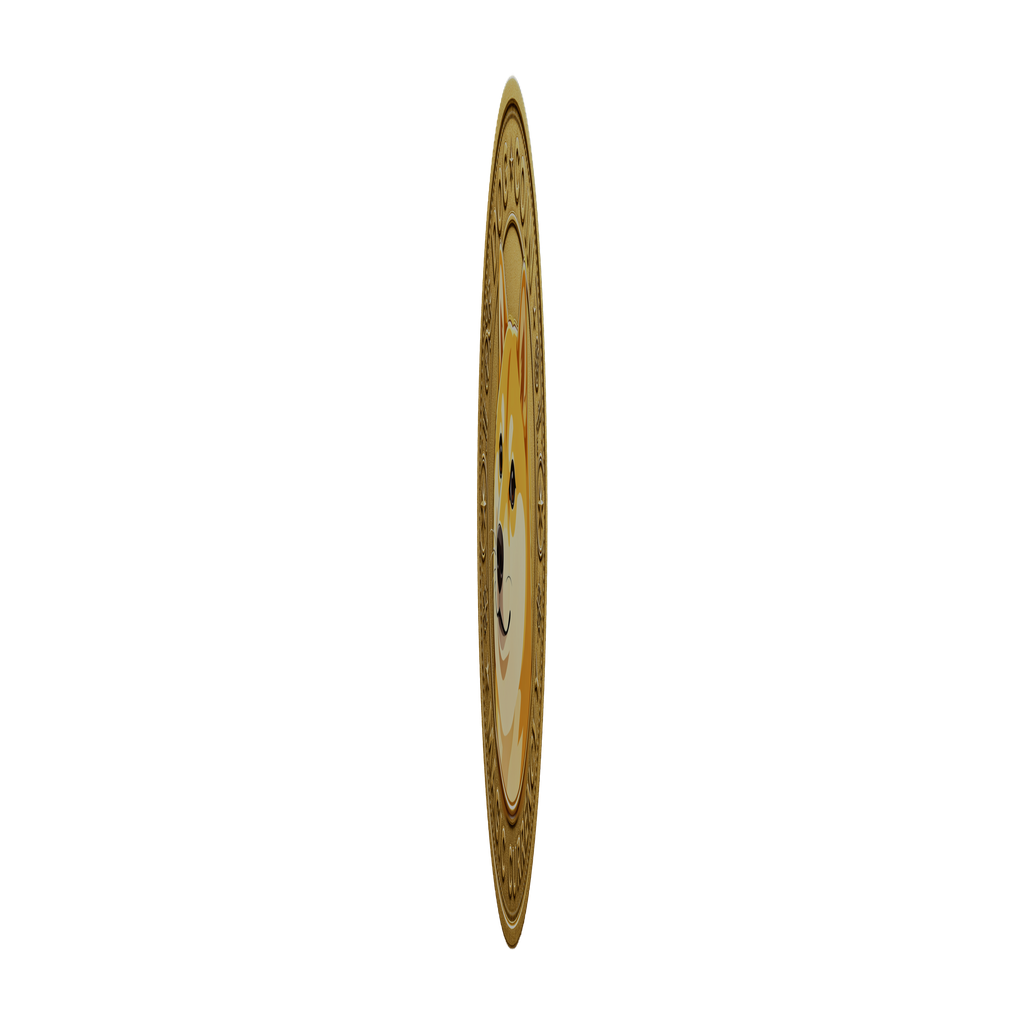
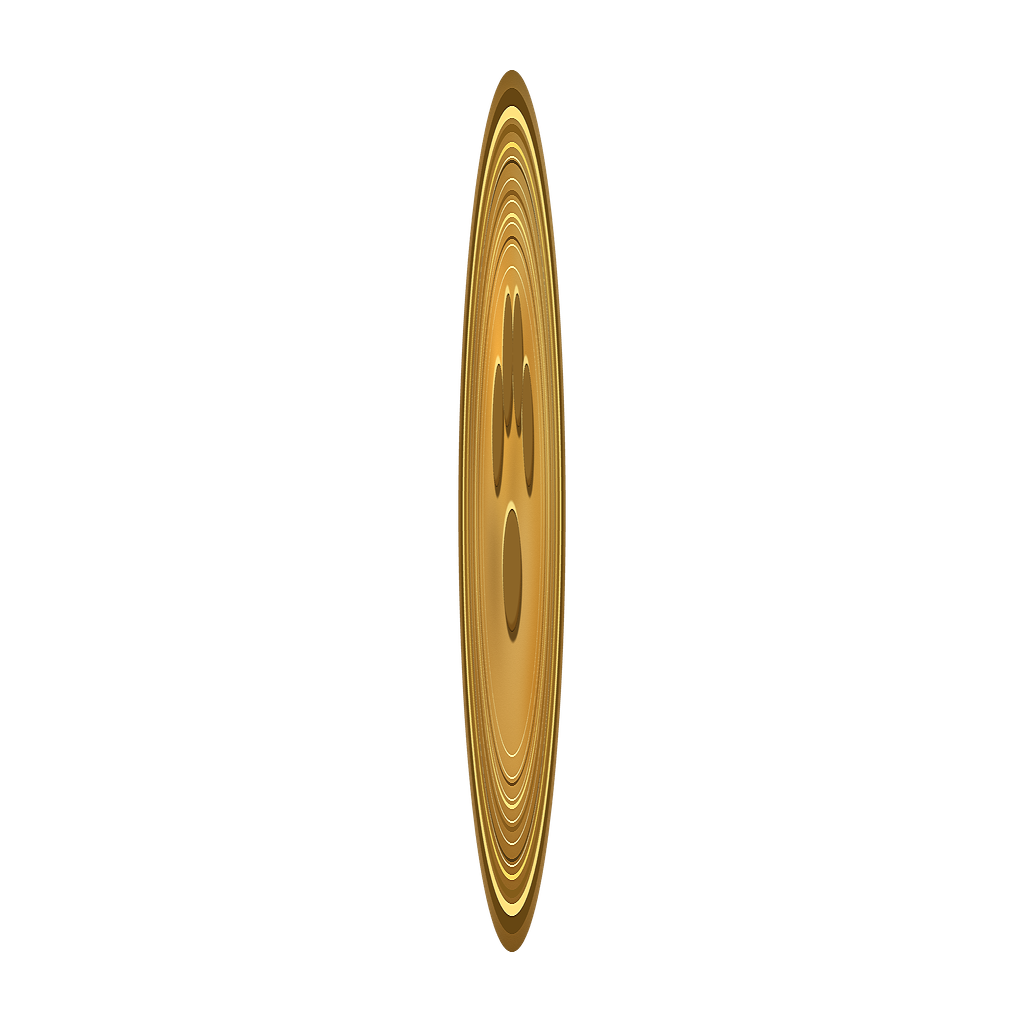
Update petrified coin masters and scale controls

Changed region(s): [[0.4375, 0.0625, 0.5625, 0.9375]]

diff --git a/src/Wukong.Desktop/MainWindow.xaml b/src/Wukong.Desktop/MainWindow.xaml
@@ -41,6 +41,12 @@
                     <MenuItem Header="Scourgify" Tag="wk.magic.scourgify" Click="MagicMenuItem_Click" />
                 </MenuItem>
                 <Separator />
+                <MenuItem Header="大小">
+                    <MenuItem Header="放大" Tag="increase" Click="PetScaleMenuItem_Click" />
+                    <MenuItem Header="缩小" Tag="decrease" Click="PetScaleMenuItem_Click" />
+                    <MenuItem Header="重置大小" Tag="reset" Click="PetScaleMenuItem_Click" />
+                </MenuItem>
+                <Separator />
                 <MenuItem Header="打开面板" Click="OpenPanelMenuItem_Click" />
                 <Separator />
                 <MenuItem Header="退出" Click="ExitMenuItem_Click" />

diff --git a/tests/Wukong.Desktop.Tests/Program.cs b/tests/Wukong.Desktop.Tests/Program.cs
@@ -243,7 +243,15 @@ static void MainWindowPetScaleChangesImageSize()
             var window = new MainWindow();
             window.SetPetScaleForTest(1.25);
             Assert(Math.Abs(window.PetScale - 1.25) < 0.001, "pet scale was not applied");
-            Assert(Math.Abs(window.Width - 400) < 0.001, "window width did not scale");
+            Assert(Math.Abs(window.Width - 400) < 0.001, "window width did not scale up");
+
+            window.SetPetScaleForTest(0.65);
+            Assert(Math.Abs(window.PetScale - 0.65) < 0.001, "pet scale did not shrink");
+            Assert(Math.Abs(window.Width - 208) < 0.001, "window width did not scale down");
+
+            window.SetPetScaleForTest(0.2);
+            Assert(Math.Abs(window.PetScale - 0.5) < 0.001, "pet scale did not clamp to minimum");
+            Assert(Math.Abs(window.Width - 160) < 0.001, "minimum window width changed");
             window.Close();
         }
         catch (Exception ex)
@@ -598,13 +606,16 @@ static void MainWindowContextMenuMatchesContract()
             var root = (FrameworkElement)window.FindName("Root");
             var menu = root.ContextMenu ?? throw new InvalidOperationException("main context menu missing");
             var headers = menu.Items.OfType<MenuItem>().Select(x => x.Header?.ToString()).ToArray();
-            Assert(headers.SequenceEqual(new[] { "停下", "聊天", "吃一下", "玩一下", "口令", "宠物魔法", "打开面板", "退出" }), "top-level context menu order changed");
+            Assert(headers.SequenceEqual(new[] { "停下", "聊天", "吃一下", "玩一下", "口令", "宠物魔法", "大小", "打开面板", "退出" }), "top-level context menu order changed");
 
             var commands = menu.Items.OfType<MenuItem>().Single(x => Equals(x.Header, "口令"));
             Assert(commands.Items.OfType<MenuItem>().Select(x => x.Header?.ToString()).SequenceEqual(new[] { "坐", "卧", "停", "转圈", "手", "吃" }), "command submenu order changed");
 
             var magic = menu.Items.OfType<MenuItem>().Single(x => Equals(x.Header, "宠物魔法"));
             Assert(magic.Items.OfType<MenuItem>().Select(x => x.Header?.ToString()).SequenceEqual(new[] { "Accio Broom", "Apparate", "Petrificus Totalus", "Scourgify" }), "magic submenu order changed");
+
+            var scale = menu.Items.OfType<MenuItem>().Single(x => Equals(x.Header, "大小"));
+            Assert(scale.Items.OfType<MenuItem>().Select(x => x.Header?.ToString()).SequenceEqual(new[] { "放大", "缩小", "重置大小" }), "scale submenu order changed");
             window.Close();
         }
         catch (Exception ex)

diff --git a/src/Wukong.Desktop/MainWindow.xaml.cs b/src/Wukong.Desktop/MainWindow.xaml.cs
@@ -21,6 +21,9 @@ public partial class MainWindow : Window
     private const double BaseWindowSize = 320;
     private const double BasePetImageSize = 310;
     private const double BaseFallbackSize = 240;
+    private const double MinPetScale = 0.5;
+    private const double MaxPetScale = 1.5;
+    private const double PetScaleStep = 0.08;
     private ControlPanelWindow? _controlPanel;
     private DesktopChatWindow? _chatWindow;
     private PetMotionRequest? _activeRequest;
@@ -253,6 +256,27 @@ public partial class MainWindow : Window
 
     private void ChatMenuItem_Click(object sender, RoutedEventArgs e) => ToggleChat();
 
+    private void PetScaleMenuItem_Click(object sender, RoutedEventArgs e)
+    {
+        if (sender is not MenuItem { Tag: string action })
+            return;
+
+        switch (action)
+        {
+            case "increase":
+                AdjustPetScale(PetScaleStep);
+                break;
+            case "decrease":
+                AdjustPetScale(-PetScaleStep);
+                break;
+            case "reset":
+                ApplyPetScale(1.0, persist: true);
+                break;
+        }
+    }
+
+    private void AdjustPetScale(double delta) => ApplyPetScale(_petScale + delta, persist: true);
+
     private void ExitMenuItem_Click(object sender, RoutedEventArgs e)
     {
         _effectCancellation?.Cancel();
@@ -268,8 +292,8 @@ public partial class MainWindow : Window
 
     private void Window_MouseWheel(object sender, MouseWheelEventArgs e)
     {
-        var step = e.Delta > 0 ? 0.08 : -0.08;
-        ApplyPetScale(_petScale + step, persist: true);
+        var step = e.Delta > 0 ? PetScaleStep : -PetScaleStep;
+        AdjustPetScale(step);
         e.Handled = true;
     }
 
@@ -658,7 +682,7 @@ public partial class MainWindow : Window
 
     private void ApplyPetScale(double scale, bool persist)
     {
-        _petScale = Math.Clamp(scale, 0.75, 1.5);
+        _petScale = Math.Clamp(scale, MinPetScale, MaxPetScale);
         Width = BaseWindowSize * _petScale;
         Height = BaseWindowSize * _petScale;
         MinWidth = 240 * _petScale;

diff --git a/CURRENT_STATE.md b/CURRENT_STATE.md
@@ -85,6 +85,7 @@ The existing prone-idle V3 animation remains a separate `runtime-candidate` and 
 - A single coin click restores vivid/front and restarts the inactivity clock. A front double-click flips to the matching-color back without resetting time; a back double-click flips to vivid/front and resets time. Pointer single-click is deferred for double-click disambiguation.
 - Coin faces and all four nine-frame flip sequences are normalized to the same 1024×1024 transparent canvas. `coin-checksums.sha256` covers all 44 coin PNG files.
 - On 2026-08-15, `state-01-vivid` and `state-02-flat` coin backs were updated to use the same clear double pressed rim language as the later back states while preserving the frosted face and paw mark; the vivid/flat flip frames, review preview GIF, and checksums were regenerated.
+- On 2026-08-15, `state-01-vivid` and `state-02-flat` coin fronts were replaced from the local V2.3 coin master JPGs in the external `images_wk/coins` source folder; source JPGs were not committed. Matching gold-luster backs, vivid/flat flip frames, review preview GIF, and checksums were regenerated. All coin faces remain on the shared 1024x1024 transparent canvas and the batch gates remain pending/prototype-only.
 - Batch state remains `runtime_validation=pending`, `runtime_approved=false`, `runtime_use=false`, `production_asset=false`, with `prototype_use=true`.
 - Initial magic playback is allowed only through explicit owner entry points (`OwnerContextMenu` and `ControlPanel`) using `BehaviorExecutionMode.PrototypePreview` and the magic behavior whitelist. Pointer interaction is accepted only while the owner-started petrification preview is active.
 - Dialogue, model output, autonomous tick, memory, personality, and normal production behavior requests must not use `PrototypePreview`; they continue to resolve through the normal runtime gate and defer until assets are formally approved.
